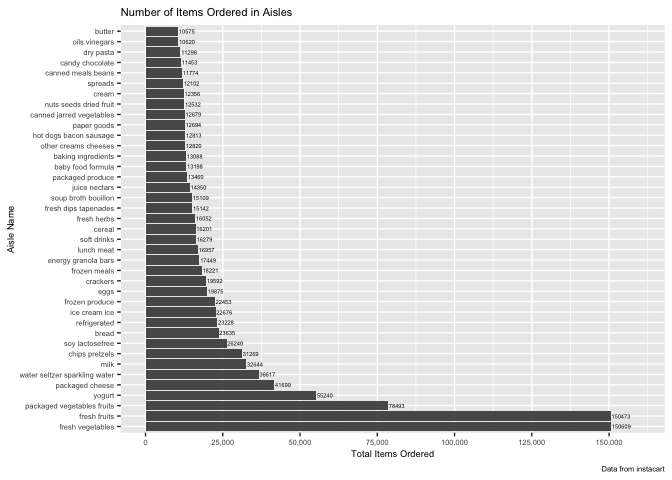
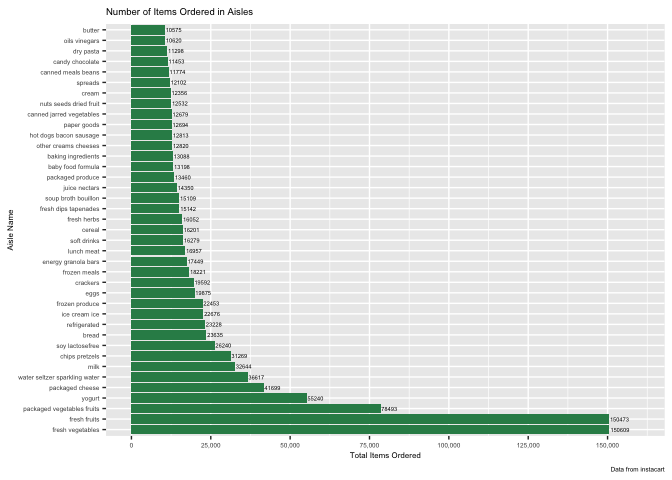
Finished! Hopefully

diff --git a/HW3.md b/HW3.md
@@ -9,14 +9,14 @@ Holly Finertie
 library(tidyverse)
 ```
 
-    ## ── Attaching packages ────────────────────────────────────────────── tidyverse 1.2.1 ──
+    ## ── Attaching packages ───────────────────────────────────── tidyverse 1.2.1 ──
 
     ## ✔ ggplot2 3.2.1     ✔ purrr   0.3.2
     ## ✔ tibble  2.1.3     ✔ dplyr   0.8.3
     ## ✔ tidyr   1.0.0     ✔ stringr 1.4.0
     ## ✔ readr   1.3.1     ✔ forcats 0.4.0
 
-    ## ── Conflicts ───────────────────────────────────────────────── tidyverse_conflicts() ──
+    ## ── Conflicts ──────────────────────────────────────── tidyverse_conflicts() ──
     ## ✖ dplyr::filter() masks stats::filter()
     ## ✖ dplyr::lag()    masks stats::lag()
 
@@ -25,14 +25,14 @@ library(p8105.datasets)
 data("instacart")
 ```
 
-### Description of Instacart Data Set:
+### Description of Instacart Data Set
 
-This data set contains `1384617 observations` and `15 variables`
-describing order information like time and day order was placed,
-products ordered, aisle where products are located, and days since last
-order was placed per user id. For example, the individual with user id 5
-ordered 9 items of which most were from the produce department. They
-placed this order 6 days after their last order.
+This data set “Instacart” contains `1384617 observations` and `15
+variables` describing order information like time and day order was
+placed, products ordered, aisle where products are located, and days
+since last order was placed per user id. For example, the individual
+with user id 5 ordered 9 items of which most were from the produce
+department. They placed this order 6 days after their last order.
 
 In total, there are `134 aisles` and the most ordered items are from the
 `fresh vegetables aisle`.
@@ -45,7 +45,7 @@ plot_aisles = instacart %>%
   filter(n_aisle > 10000) %>% 
   arrange((n_aisle)) %>% 
   ggplot(aes(x = reorder(aisle, -n_aisle), y = n_aisle)) +
-  geom_bar(stat = "identity") + 
+  geom_bar(stat = "identity", fill = "seagreen4") + 
   geom_text(aes(label = n_aisle), hjust = -0.05, size = 1.5) +
   labs(
     title = "Number of Items Ordered in Aisles",
@@ -56,7 +56,7 @@ plot_aisles = instacart %>%
     breaks = c(0, 25000, 50000, 75000, 100000, 125000, 150000), 
     labels = c("0", "25,000", "50,000", "75,000", "100,000", "125,000", "150,000"),
     limits = c(0, 160000)) +
-  theme(text = element_text(size = 7))
+  theme(text = element_text(size = 6))
 
 plot_aisles + coord_flip()
 ```
@@ -72,41 +72,37 @@ top3_products = instacart %>%
     aisle == "baking ingredients" | 
     aisle == "dog food care" | 
     aisle == "packaged vegetables fruits") %>% 
+  mutate(aisle = str_to_title(aisle)) %>% 
   group_by(aisle) %>% 
   count(product_name, name = "n_product") %>% 
   filter(min_rank(desc(n_product)) < 4) %>% 
   arrange(desc(n_product)) %>%
   mutate(
-    product_name = str_to_lower(product_name), 
-    "Rank" = row_number()) %>%
-  rename(
-    "Aisle Name" = aisle,
-    "Product Name" = product_name, 
-    "Count" = n_product
+    "Rank" = row_number(),
+    n_product = paste(product_name, n_product, sep = ", n = ")) %>% 
+  select( "Rank", "aisle", "n_product") %>% 
+  pivot_wider(
+    names_from = "aisle", 
+    values_from = "n_product"
   ) %>% 
-  select( "Rank", everything()) %>% 
   knitr::kable()
 
 top3_products
 ```
 
-| Rank | Aisle Name                 | Product Name                                  | Count |
-| ---: | :------------------------- | :-------------------------------------------- | ----: |
-|    1 | packaged vegetables fruits | organic baby spinach                          |  9784 |
-|    2 | packaged vegetables fruits | organic raspberries                           |  5546 |
-|    3 | packaged vegetables fruits | organic blueberries                           |  4966 |
-|    1 | baking ingredients         | light brown sugar                             |   499 |
-|    2 | baking ingredients         | pure baking soda                              |   387 |
-|    3 | baking ingredients         | cane sugar                                    |   336 |
-|    1 | dog food care              | snack sticks chicken & rice recipe dog treats |    30 |
-|    2 | dog food care              | organix chicken & brown rice recipe           |    28 |
-|    3 | dog food care              | small dog biscuits                            |    26 |
+| Rank | Packaged Vegetables Fruits     | Baking Ingredients         | Dog Food Care                                         |
+| ---: | :----------------------------- | :------------------------- | :---------------------------------------------------- |
+|    1 | Organic Baby Spinach, n = 9784 | Light Brown Sugar, n = 499 | Snack Sticks Chicken & Rice Recipe Dog Treats, n = 30 |
+|    2 | Organic Raspberries, n = 5546  | Pure Baking Soda, n = 387  | Organix Chicken & Brown Rice Recipe, n = 28           |
+|    3 | Organic Blueberries, n = 4966  | Cane Sugar, n = 336        | Small Dog Biscuits, n = 26                            |
 
 ### Mean Time of Day Pink Lady Apples and Coffee Ice Cream Are Ordered by Day
 
 ``` r
 apples_and_cream = instacart %>% 
-  filter(product_name == "Pink Lady Apples" | product_name == "Coffee Ice Cream") %>% 
+  filter(
+    product_name == "Pink Lady Apples" | 
+    product_name == "Coffee Ice Cream") %>% 
   group_by(order_dow, product_name) %>% 
   summarize(mean_time = mean(order_hour_of_day)) %>% 
   separate(
@@ -114,20 +110,17 @@ apples_and_cream = instacart %>%
     into = c("hour", "minute"), sep = 2) %>%
   ungroup(order_dow) %>% 
   mutate(order_dow = recode(order_dow, 
-         `0` = "Monday", 
-         `1` = "Tuesday", 
-         `2` = "Wednesday", 
-         `3` = "Thursday",
-         `4` = "Friday", 
-         `5` = "Saturday",
-         `6` = "Sunday"), 
+         `0` = "Sunday",
+         `1` = "Monday", 
+         `2` = "Tuesday", 
+         `3` = "Wednesday", 
+         `4` = "Thursday",
+         `5` = "Friday", 
+         `6` = "Saturday"), 
       hour = as.numeric(hour),
       minute = as.numeric(minute),
-      ave_hour = ifelse(hour>12,(hour-12), hour),
       minute = round((minute*60), digits = 0), 
-      mean_time = 
-        ifelse((hour>12), paste(ave_hour,":",minute, "pm"), 
-      paste(ave_hour, ":",minute, "am"))) %>% 
+      mean_time = paste(hour, minute, sep = ":")) %>% 
   select(order_dow, product_name, mean_time) %>% 
   pivot_wider(
     names_from = "product_name", 
@@ -135,18 +128,21 @@ apples_and_cream = instacart %>%
   ) %>% 
   rename("Day of Week" = order_dow) %>% 
   knitr::kable()
+
 apples_and_cream
 ```
 
 | Day of Week | Coffee Ice Cream | Pink Lady Apples |
 | :---------- | :--------------- | :--------------- |
-| Monday      | 1 : 46 pm        | 1 : 26 pm        |
-| Tuesday     | 2 : 19 pm        | 11 : 22 am       |
-| Wednesday   | 3 : 23 pm        | 11 : 42 am       |
-| Thursday    | 3 : 19 pm        | 2 : 15 pm        |
-| Friday      | 3 : 13 pm        | 11 : 33 am       |
-| Saturday    | 12 : 16 am       | 12 : 47 am       |
-| Sunday      | 1 : 50 pm        | 11 : 56 am       |
+| Sunday      | 13:46            | 13:26            |
+| Monday      | 14:19            | 11:22            |
+| Tuesday     | 15:23            | 11:42            |
+| Wednesday   | 15:19            | 14:15            |
+| Thursday    | 15:13            | 11:33            |
+| Friday      | 12:16            | 12:47            |
+| Saturday    | 13:50            | 11:56            |
+
+  - Worked under the assumption that 0 = Sunday\!
 
 # Problem 2
 
@@ -162,74 +158,27 @@ brfss_smart2010 = brfss_smart2010 %>%
   mutate(response = forcats::fct_relevel(response, c("Poor", "Fair","Good", "Very good", "Excellent")))
 ```
 
-### States with 7 or More Observed Locations (2002 and 2010)
+### States with 7 or More Observed Locations in 2002 and 2010
 
 ``` r
-states_2002 = brfss_smart2010 %>% 
-  filter(year == 2002) %>% 
-  group_by(locationabbr) %>% 
+state_locations = brfss_smart2010 %>% 
+  filter(year == 2002 | year == 2010) %>% 
+  group_by(locationabbr, year) %>% 
   summarize(n_location = n_distinct(locationdesc)) %>% 
   filter(n_location >= 7) %>% 
   rename(
     "State" = locationabbr, 
     "Number of Locations" = n_location
-  ) %>% 
-  knitr::kable()
-
-states_2002
+  ) 
 ```
 
-| State | Number of Locations |
-| :---- | ------------------: |
-| CT    |                   7 |
-| FL    |                   7 |
-| MA    |                   8 |
-| NC    |                   7 |
-| NJ    |                   8 |
-| PA    |                  10 |
+  - In 2002, there were 6 states with 7 or more locations were: CT, FL,
+    MA, NC, NJ, PA.
 
-  - Connecticut, Florida, Massachusetts, North Carolina, New Jersey and
-    Pennsylvania had 7 or more locations in 2002.
+  - In 2010, there were 14 states with 7 or more locations were: CA, CO,
+    FL, MA, MD, NC, NE, NJ, NY, OH, PA, SC, TX, WA.
 
-<!-- end list -->
-
-``` r
-states_2010 = brfss_smart2010 %>% 
-  filter(year == 2010) %>% 
-  group_by(locationabbr) %>% 
-  summarize(n_location = n_distinct(locationdesc)) %>% 
-  filter(n_location >= 7) %>% 
-  rename(
-    "State" = locationabbr, 
-    "Number of Locations" = n_location
-  ) %>% 
-  knitr::kable()
-
-states_2010
-```
-
-| State | Number of Locations |
-| :---- | ------------------: |
-| CA    |                  12 |
-| CO    |                   7 |
-| FL    |                  41 |
-| MA    |                   9 |
-| MD    |                  12 |
-| NC    |                  12 |
-| NE    |                  10 |
-| NJ    |                  19 |
-| NY    |                   9 |
-| OH    |                   8 |
-| PA    |                   7 |
-| SC    |                   7 |
-| TX    |                  16 |
-| WA    |                  10 |
-
-  - California, Colorado, Florida, Massachusetts, Maryland, North
-    Carolina, Nebraska, New Jersey, New York, Ohio, Pennsylvania, South
-    Carolina, Texas, and Washington had 7 or more locations in 2010.
-
-### Spaghetti Plot: Average Data Value Over Time by State
+### Spaghetti Plot: Average Percent of Excellent Responses
 
 ``` r
 brfss_excellent = brfss_smart2010  %>% 
@@ -242,39 +191,53 @@ brfss_excellent = brfss_smart2010  %>%
   ggplot(aes(x = year, y = mean_value)) +
   geom_line(aes(group = locationabbr, color = locationabbr)) +
   labs(
-    title = "Average Data Value for Excellent Responses",
+    title = "Average Percent of Respondents with Excellent Overall Health",
     x = "Year",
-    y = "Average Data Value",
+    y = "Average %",
     caption = "Data from BRFSS") +
-  scale_color_hue(name = "State")
+   scale_y_continuous(
+    breaks = c(10, 20, 30), 
+    labels = c("10%", "20%", "30%"),
+    limits = c(10, 30)) +
+  viridis::scale_color_viridis(
+    name = "State", 
+    discrete = TRUE
+  )
 
 brfss_excellent
 ```
 
-![](HW3_files/figure-gfm/unnamed-chunk-8-1.png)<!-- -->
+![](HW3_files/figure-gfm/unnamed-chunk-7-1.png)<!-- -->
 
-### 2 Panel Plot for Distribution of Data Values in NY by 2006 and 2010
+### 2 Panel Plot for Distribution of Response Types in NY by 2006 and 2010
 
 ``` r
 brfss_ny_state = brfss_smart2010 %>% 
   filter((year == 2010 | year == 2006) & locationabbr == "NY") %>% 
-  mutate(locationdesc = substr(locationdesc, 6, 10000)) %>% 
+  mutate(
+    locationdesc = substr(locationdesc, 6, 10000)) %>% 
   ggplot(aes(x = locationdesc, y = data_value, fill = response)) + 
   geom_bar(stat = "identity", position = "dodge") +
   facet_grid(~year) +
   theme(axis.text.x = element_text(angle = 90, hjust = 1)) + 
   labs(
-    title = "Distribution of Data Values in NY",
+    title = "Distribution of Responses to Overall Health in NY by County",
     x = "NY County",
-    y = "Data Value",
+    y = "% of Response Types",
     caption = "Data from BRFSS") +
-  scale_color_hue(name = "Response Category")
+   scale_y_continuous(
+    breaks = c(0, 10, 20, 30, 40), 
+    labels = c("0", "10%", "20%", "30%", "40%"),
+    limits = c(0, 42)) +
+  viridis::scale_fill_viridis(
+    name = "Response Type", 
+    discrete = TRUE
+  )
   
-
 brfss_ny_state
 ```
 
-![](HW3_files/figure-gfm/unnamed-chunk-9-1.png)<!-- -->
+![](HW3_files/figure-gfm/unnamed-chunk-8-1.png)<!-- -->
 
 # Problem 3
 
@@ -286,16 +249,13 @@ accel_data = read_csv("./data/accel_data.csv") %>%
   pivot_longer(
     activity_1:activity_1440, 
     names_to = "activity_minute", 
+    names_prefix = "activity_",
     values_to = "activity_count") %>% 
-  separate(
-    activity_minute, 
-    into = c("activity", "activity_minute"), sep = 9) %>% 
   mutate(
     day_type = case_when(
           (day == "Saturday" | day == "Sunday") ~ "Weekend", 
           TRUE ~ "Weekday"), 
-    activity_minute = as.integer(activity_minute)) %>% 
-  select(-activity)
+    activity_minute = as.integer(activity_minute))
 ```
 
     ## Parsed with column specification:
@@ -369,36 +329,38 @@ total_activity
   - I would argue that there are no apparent trends across the total
     activity for 35 days.
 
-### Total Activity over the course of a Day
+### Activity by Minute by Day
 
 ``` r
 activity_plot = accel_data %>% 
   group_by(activity_minute, day) %>% 
   summarize(mean_activity = mean(activity_count)) %>% 
-ggplot(aes(x = activity_minute, y = mean_activity)) +
-  geom_line(aes(color = day), alpha = 0.4) +
-  geom_smooth(se = FALSE, alpha = 0.4) +
+ggplot(aes(x = activity_minute, y = mean_activity, color = day)) +
+  geom_smooth(se = FALSE) +
   labs(
-    title = "Activity Counts for Mintes in 24-hour Period",
+    title = "Activity Count by Day and Minutes in 24-hour Period",
     x = "Minute",
     y = "Activity Count",
     caption = "Data from the Advanced Cardiac Care 
     Center of Columbia University Medical Center"
   ) +
-  scale_color_hue(name = "Day of Week") +
+  viridis::scale_color_viridis(
+    name = "Day of Week", 
+    discrete = TRUE
+  ) +
    scale_x_continuous(
     breaks = c(0, 180, 360, 540, 720, 900, 1080, 1260, 1440), 
     labels = c("00:00","03:00", "06:00", "09:00","12:00", "15:00", "18:00", "21:00", "24:00"),
-    limits = c(0, 1440))
+    limits = c(0, 1440)) 
 
 activity_plot
 ```
 
     ## `geom_smooth()` using method = 'gam' and formula 'y ~ s(x, bs = "cs")'
 
-![](HW3_files/figure-gfm/unnamed-chunk-12-1.png)<!-- -->
+![](HW3_files/figure-gfm/unnamed-chunk-11-1.png)<!-- -->
 
-  - The lowest activity points are around 3:00 and 24:00, while the
-    highest activity points occur around 10:00 and 21:00 across all
-    days. There are peaks at 10:00 on Sundays and 21:00 on Fridays close
-    to 2,000. But on average, the activity count stays under 500.
+  - The lowest activity points for all days are from 2:00-4:00 and at
+    24:00, while the highest activity points occur around 10:00 on
+    Sundays and 21:00 on Fridays. On average, the activity count stays
+    under 500.
